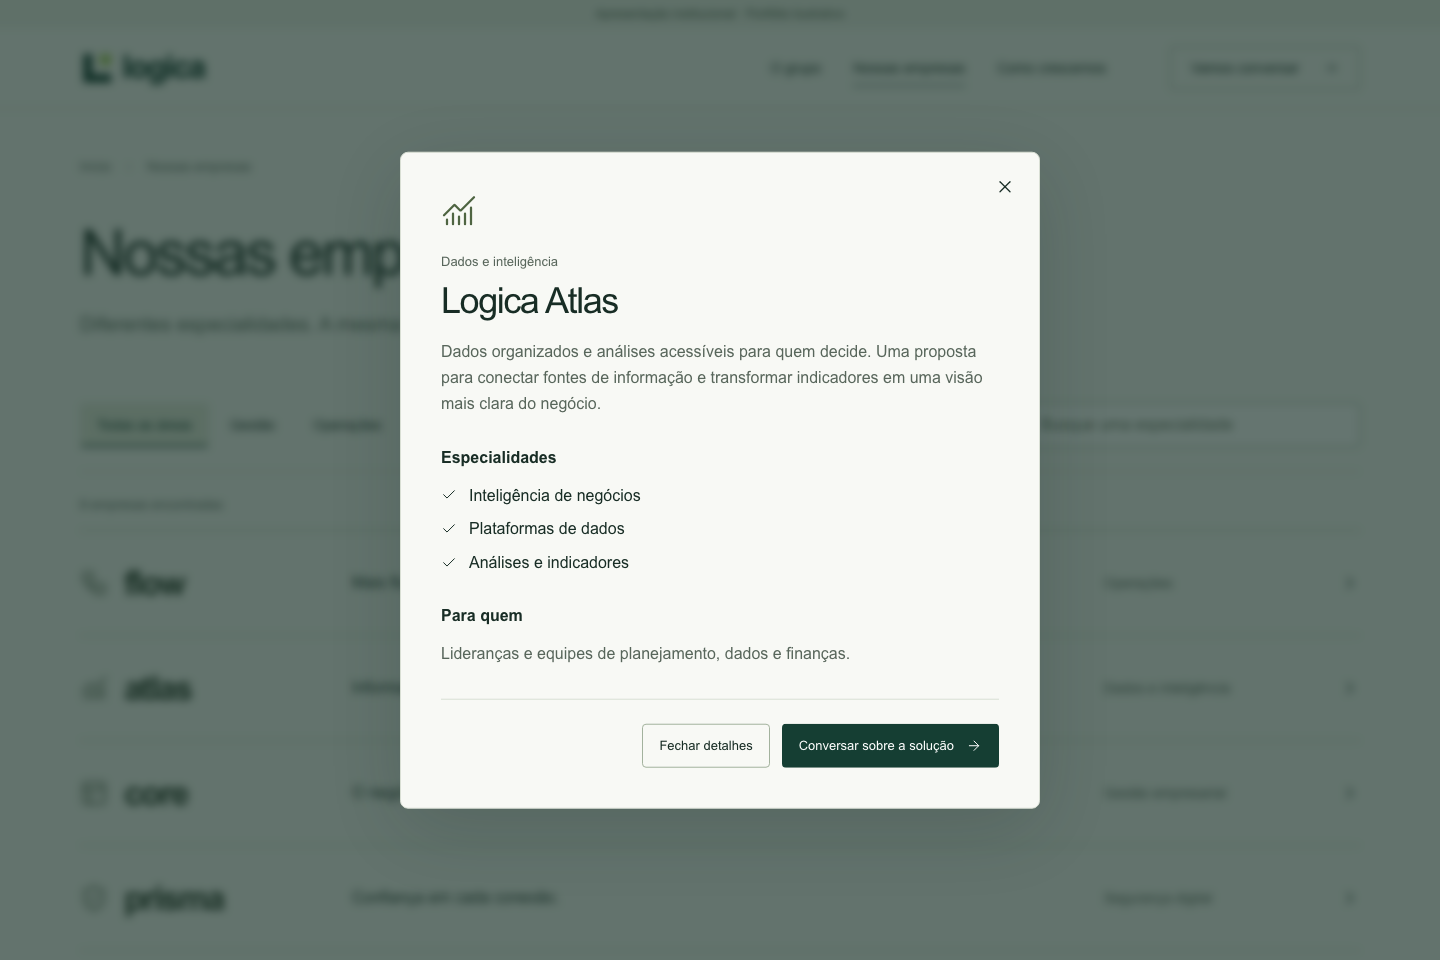
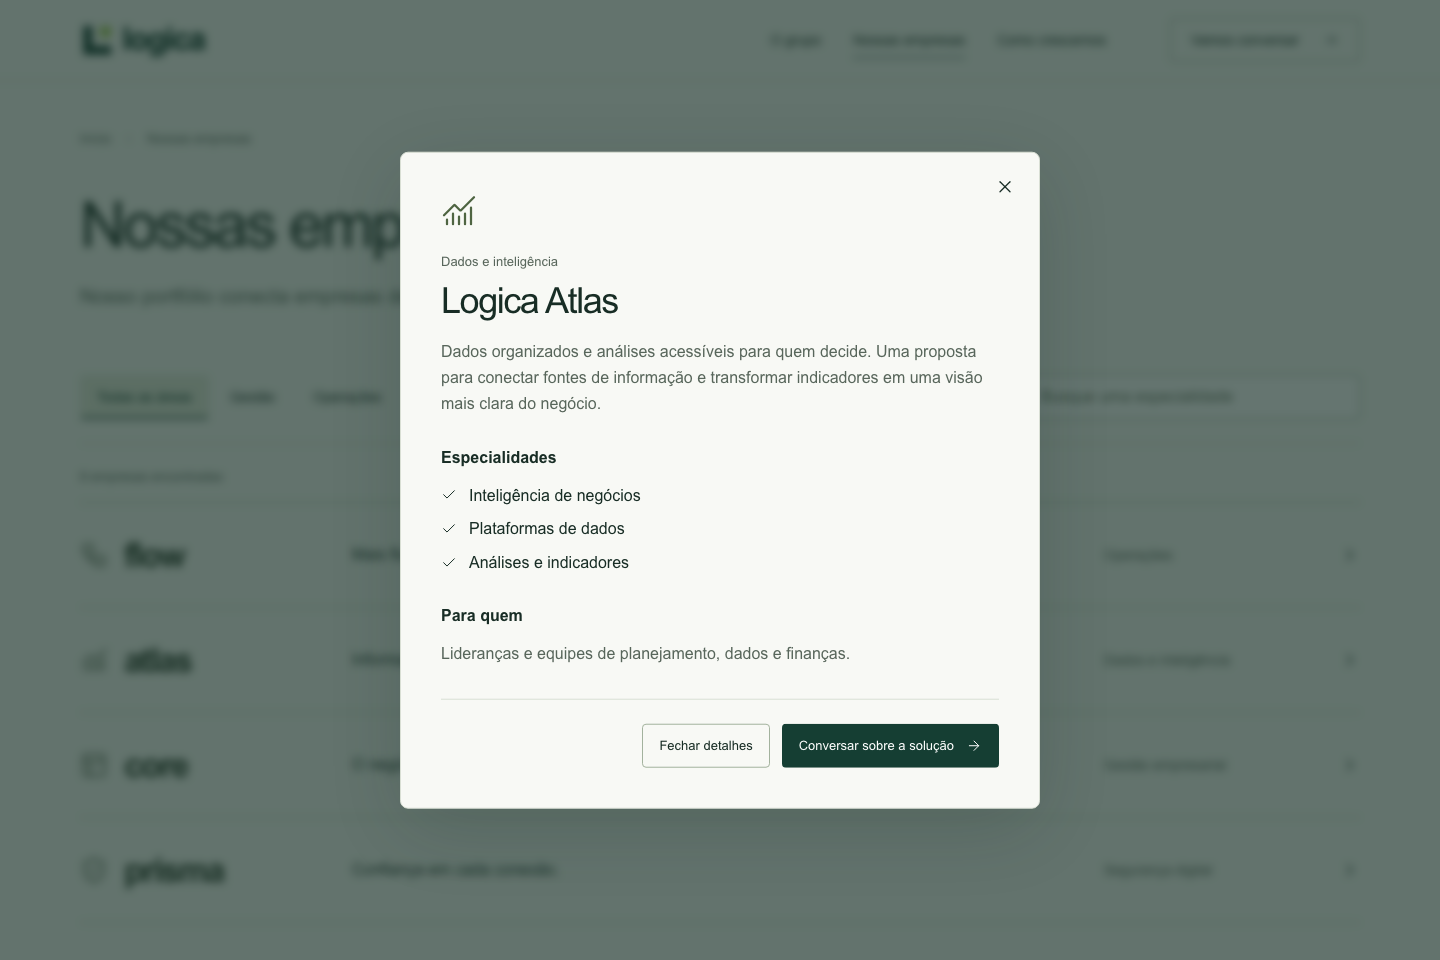
Update Site source

diff --git a/src/pages/Home.tsx b/src/pages/Home.tsx
@@ -22,8 +22,8 @@ export default function Home() {
       <section className="hero">
         <img
           className="hero-image"
-          src="/images/conexoes.webp"
-          alt="Passarela conectando edifícios de arquitetura contemporânea em meio à vegetação"
+          src="/images/grupo-software.webp"
+          alt="Diferentes equipes de tecnologia trabalhando com desenvolvimento e análise de software"
           width="1536"
           height="1024"
           fetchPriority="high"
@@ -32,19 +32,19 @@ export default function Home() {
         <div className="container hero-inner">
           <div className="hero-copy">
             <h1>
-              Boas empresas.
+              Um grupo de
               <br />
-              Novas
-              <br className="desktop-break" /> possibilidades.
+              empresas de
+              <br />
+              software.
             </h1>
             <p>
-              Independência para criar.
-              <br />
-              Conexão para ir além.
+              Um portfólio de especialidades, com autonomia para criar e
+              conexões para crescer.
             </p>
             <Button asChild variant="light">
               <Link to="/empresas">
-                Conhecer nossas empresas
+                Explorar nosso portfólio
                 <ArrowRight />
               </Link>
             </Button>
@@ -54,7 +54,7 @@ export default function Home() {
             Conheça a Logica
           </a>
           <span className="hero-caption">
-            Um grupo de empresas de software.
+            Empresas independentes. Um grupo conectado.
           </span>
         </div>
       </section>
@@ -70,11 +70,12 @@ export default function Home() {
             </h2>
             <div className="section-copy">
               <p className="lead">
-                O que já faz uma empresa ser boa é o ponto de partida.
+                Um grupo que reúne empresas de software e valoriza o que cada
+                uma faz de melhor.
               </p>
               <p>
-                Reunimos negócios de software com diferentes especialidades.
-                Preservamos o que os torna únicos e criamos espaço para trocar
+                Nosso portfólio conecta negócios com diferentes especialidades.
+                Preservamos sua identidade e criamos espaço para trocar
                 conhecimento, aproximar talentos e crescer com direção.
               </p>
               <TextLink to="/grupo">Conheça o grupo</TextLink>
@@ -106,14 +107,14 @@ export default function Home() {
           <div className="section-heading reveal">
             <div>
               <h2>
-                Especialistas no que fazem.
+                Empresas especialistas.
                 <br />
-                <span>Conectadas pelo que vem.</span>
+                <span>Um portfólio conectado.</span>
               </h2>
             </div>
-            <TextLink to="/empresas">Explore o ecossistema</TextLink>
+            <TextLink to="/empresas">Conheça todas as empresas</TextLink>
           </div>
-          <CompanyList items={companies.slice(0, 3)} />
+          <CompanyList items={companies} />
           <div className="portfolio-note">
             <span>Software para diferentes desafios.</span>
             <span>Gestão · Operações · Dados · Infraestrutura</span>
@@ -123,8 +124,8 @@ export default function Home() {
       <section className="model-section">
         <div className="model-photo">
           <img
-            src="/images/conexoes.webp"
-            alt="Arquitetura integrada à paisagem, com espaços conectados"
+            src="/images/grupo-software.webp"
+            alt="Profissionais de diferentes especialidades colaborando em produtos de software"
             width="768"
             height="800"
             loading="lazy"

diff --git a/src/styles.css b/src/styles.css
@@ -251,16 +251,6 @@ p {
   text-decoration: underline;
   text-underline-offset: 6px;
 }
-.presentation-notice {
-  height: 28px;
-  display: flex;
-  align-items: center;
-  justify-content: center;
-  background: var(--muted);
-  color: #4b5a4b;
-  font-size: 12px;
-  line-height: 16px;
-}
 .site-header {
   position: sticky;
   top: 0;
@@ -321,7 +311,7 @@ p {
   background: #173c30;
   color: #fff;
   min-height: 640px;
-  height: calc(100svh - 108px);
+  height: calc(100svh - 80px);
   max-height: 840px;
   isolation: isolate;
 }
@@ -331,13 +321,13 @@ p {
   width: 100%;
   height: 100%;
   object-fit: cover;
-  object-position: center 48%;
+  object-position: center 50%;
   z-index: -3;
 }
 .hero-shade {
   position: absolute;
   inset: 0;
-  background: rgb(9 31 24 / 28%);
+  background: rgb(9 31 24 / 20%);
   z-index: -2;
 }
 .hero-inner {
@@ -358,6 +348,7 @@ p {
   animation: arrive 0.8s both;
 }
 .hero-copy p {
+  max-width: 440px;
   color: #eef2e9;
   font-size: 20px;
   line-height: 1.5;
@@ -1428,10 +1419,6 @@ p {
   .container {
     width: calc(100% - 40px);
   }
-  .presentation-notice {
-    font-size: 12px;
-    height: 28px;
-  }
   .header-inner {
     height: 64px;
     gap: 12px;
@@ -1450,13 +1437,13 @@ p {
   .hero {
     min-height: 560px;
     max-height: 780px;
-    height: calc(100svh - 92px);
+    height: calc(100svh - 64px);
   }
   .hero-image {
-    object-position: 59% center;
+    object-position: 88% center;
   }
   .hero-shade {
-    background: #102b2266;
+    background: #102b2280;
   }
   .hero-inner {
     align-items: center;

diff --git a/src/pages/Group.tsx b/src/pages/Group.tsx
@@ -4,12 +4,13 @@ export default function Group() {
   return (
     <>
       <PageIntro title="O grupo">
-        Uma nova perspectiva para empresas que querem ir além.
+        Um portfólio de empresas de software. Diferentes especialidades, novas
+        conexões.
       </PageIntro>
       <section className="group-visual container">
         <img
-          src="/images/conexoes.webp"
-          alt="Passarela entre edifícios cercados de árvores"
+          src="/images/grupo-software.webp"
+          alt="Equipes de tecnologia desenvolvendo soluções de software em um ambiente de colaboração"
           width="1536"
           height="640"
         />
@@ -33,9 +34,9 @@ export default function Group() {
               mercado.
             </p>
             <p>
-              A Logica parte dessa convicção. Nosso modelo aproxima empresas
-              especialistas e preserva sua identidade, seus talentos e o
-              conhecimento construído ao longo do tempo.
+              A Logica é um grupo com um portfólio de empresas de software.
+              Reunimos diferentes especialidades e preservamos a identidade, os
+              talentos e o conhecimento de cada negócio.
             </p>
             <p>
               A conexão acontece onde faz sentido: na troca de experiências, no

diff --git a/index.html b/index.html
@@ -11,17 +11,17 @@
     />
     <meta
       property="og:title"
-      content="Logica — Um grupo. Novas possibilidades."
+      content="Logica — Um grupo de empresas de software."
     />
     <meta
       property="og:description"
-      content="Independência para criar. Conexão para crescer."
+      content="Um portfólio de empresas de software. Diferentes especialidades, autonomia para criar e conexões para crescer."
     />
     <meta property="og:type" content="website" />
     <meta property="og:locale" content="pt_BR" />
-    <meta property="og:image" content="/images/conexoes.webp" />
+    <meta property="og:image" content="/images/grupo-software.webp" />
     <link rel="icon" type="image/svg+xml" href="/brand/favicon.svg" />
-    <title>Logica — Um grupo. Novas possibilidades.</title>
+    <title>Logica — Um grupo de empresas de software.</title>
   </head>
   <body>
     <div id="root"></div>

diff --git a/src/lib/data.ts b/src/lib/data.ts
@@ -122,7 +122,7 @@ export const subjects = [
 export const faqs = [
   [
     "O que é a Logica?",
-    "A Logica é a proposta de um grupo de empresas de software que combina autonomia, troca de conhecimento e visão de longo prazo. Este site apresenta esse conceito com um portfólio ilustrativo.",
+    "A Logica é um grupo com um portfólio de empresas de software. Reunimos negócios com diferentes especialidades, preservando sua autonomia e criando conexões para compartilhar conhecimento e crescer no longo prazo.",
   ],
   [
     "As empresas mantêm sua identidade?",

diff --git a/src/components/app/SiteShell.tsx b/src/components/app/SiteShell.tsx
@@ -58,9 +58,6 @@ export function SiteShell({ children }: PropsWithChildren) {
       <a className="skip-link" href="#conteudo">
         Pular para o conteúdo
       </a>
-      <div className="presentation-notice">
-        Apresentação institucional · Portfólio ilustrativo
-      </div>
       <header className="site-header">
         <div className="container header-inner">
           <Link className="brand" to="/" aria-label="Logica — página inicial">

diff --git a/src/App.tsx b/src/App.tsx
@@ -9,7 +9,7 @@ const Contact = lazy(() => import("./pages/Contact"));
 const Privacy = lazy(() => import("./pages/Privacy"));
 const NotFound = lazy(() => import("./pages/NotFound"));
 const titles: Record<string, string> = {
-  "/": "Um grupo. Novas possibilidades.",
+  "/": "Um grupo de empresas de software.",
   "/grupo": "O grupo",
   "/empresas": "Nossas empresas",
   "/modelo": "Como crescemos",

diff --git a/src/pages/Companies.tsx b/src/pages/Companies.tsx
@@ -32,7 +32,8 @@ export default function Companies() {
   return (
     <>
       <PageIntro title="Nossas empresas">
-        Diferentes especialidades. A mesma vontade de construir.
+        Nosso portfólio conecta empresas de software com diferentes
+        especialidades.
       </PageIntro>
       <section className="container directory">
         <div className="directory-toolbar">

diff --git a/docs/ATIVOS.md b/docs/ATIVOS.md
@@ -1,10 +1,18 @@
 # Identidade e ativos
 
 - `public/brand/logo.svg`, `logo-light.svg` e `favicon.svg`: preservados do ZIP fornecido pelo usuário. Mantida a marca Logica sem redesenho desnecessário.
-- `public/images/conexoes.webp`: imagem conceitual gerada com a ferramenta integrada ImageGen em 29/10/2026. Não é fotografia documental nem representa um imóvel real do grupo. Original em PNG preservado no armazenamento de imagens do Codex; versão WebP otimizada incluída no projeto.
+- `public/images/conexoes.webp`: ativo anterior, mantido como referência e sem uso na interface atual; imagem conceitual gerada com a ferramenta integrada ImageGen em 29/10/2026. Não é fotografia documental nem representa um imóvel real do grupo. Original em PNG preservado no armazenamento de imagens do Codex; versão WebP otimizada incluída no projeto.
 - Ícones: Lucide (licença ISC). Dependências de interface sob suas respectivas licenças open source. Consulte os pacotes instalados para os textos completos.
 - Fontes: Arial/Helvetica e fallback sans-serif do sistema, sem download externo.
 
-## Prompt da imagem
+## Prompt da imagem anterior — arquitetura
 
 Create a sophisticated architectural editorial photograph for a Brazilian software investment group website named Logica. Ultra-wide landscape 3:2 image, photorealistic, restrained, tactile real-world architecture. A modern Brazilian concrete building with a long clean horizontal elevated pedestrian bridge crossing from center toward upper right, tall glass facades reflecting forest, dense tropical trees below and right, one tiny distant human silhouette for scale. Architectural photography on fine-grain film, soft bright overcast daylight, deep forest green shadows, ivory pale concrete, sage foliage. Strong right-side architectural subject with open calm dark forest shaded area on the entire left half suitable for white website headline overlay. Wide-angle professionally composed, no fisheye, natural contrast. No text, no logos, no watermarks, no glowing circuits, no abstract 3D, no UI, no gradient artwork. It should feel like a carefully art-directed corporate magazine cover photograph, authentic architectural detail, timeless Brazilian modernism.
+
+## Imagem atual — grupo de software
+
+`public/images/grupo-software.webp`: nova imagem conceitual gerada com a ferramenta integrada ImageGen em 29/10/2026. Mostra diferentes equipes e especialidades de software em uma composição contínua. Não é registro documental de colaboradores ou instalações da empresa. Usada no herói, no grupo, no modelo da página inicial e no compartilhamento.
+
+### Prompt utilizado
+
+Create a premium corporate editorial PHOTOGRAPH for the full-width hero of Logica, a holding group with a portfolio of independent software companies. The visual must clearly show SOFTWARE TEAMS and different areas of digital expertise connected in one group, rather than architecture or real estate. Single coherent real-world scene: a candid wide view of a refined contemporary Brazilian software workplace, three distinct small autonomous teams at separate work islands, collaborating on laptops and large monitors, a quiet developer workstation nearer right foreground with subtle code visible on one screen and a dashboard on another, a small product discussion behind glass further right, and a pair reviewing a laptop in the midground. 6-8 people total, diverse Brazilian adults in understated everyday business clothes, mostly side and rear views, unposed, no one looking at camera, avoid stock-photo smiles. Warm natural daylight, walnut desks, forest-green textile panels and muted olive details, off-white walls, a few real plants, fine film grain, sophisticated subdued palette. Strong main subject entirely on the right 55 percent. The left 45 percent should be a quiet dark forest-green acoustic wall in soft natural shade with minimal detail, giving a reliably dark calm background for a white website title that will be added separately. Deep continuous perspective from dark left calm area toward active right workspace; not a split image and no graphic panels. Horizontal wide 3:2 composition. Realistic optics and skin, believable screen scale, documentary photography, authentic professional atmosphere. No text overlay, no words or logos in the scene, no watermarks, no collage, no generated UI frames, no isometric cubes, no neon, no glowing circuit lines, no holograms, no generic abstract AI shapes. This is a conceptual editorial image, not a factual photograph of company offices.

diff --git a/docs/UI-UX.md b/docs/UI-UX.md
@@ -2,13 +2,13 @@
 
 ## Direção visual
 
-Uma composição institucional sóbria, com verde profundo, superfícies claras, arquitetura brasileira e espaço para a história de cada empresa.
+Uma composição institucional sóbria, com verde profundo, superfícies claras, equipes de tecnologia e espaço para a história de cada empresa.
 
 O conteúdo segue: apresentação → essência → empresas → modelo → perguntas → contato. A interação usa entrada breve no herói, revelação de conteúdo ao rolar e transições em linhas e acordeões. Todas respeitam movimento reduzido.
 
 ## Relação com a referência
 
-Preservados: nome Logica, logos SVG, paleta verde, fonte Arial/Helvetica, páginas, especialidades e conceito de autonomia com colaboração. A imagem do ecossistema e os adornos numerados deram lugar à fotografia arquitetônica e a listas editoriais. A imagem é conceitual, não representa um escritório real da empresa.
+Preservados: nome Logica, logos SVG, paleta verde, fonte Arial/Helvetica, páginas, especialidades e conceito de autonomia com colaboração. O herói traz explicitamente “Um grupo de empresas de software” e uma imagem editorial de diferentes equipes trabalhando com software. As seis empresas aparecem na seção de portfólio da página inicial. A imagem é conceitual e não representa um escritório real da empresa.
 
 ## Aplicação das diretrizes fornecidas
 
@@ -21,7 +21,7 @@ O arquivo original está em DIRETRIZES-UI.md. Foi tratado como requisito de UI s
 - Sem gradientes, contadores artificiais, depoimentos, gráficos decorativos, badges de categoria, numeração de seções sem sequência ou setas diagonais para navegação interna.
 - Formulário de contato na página prevista no material, sem esconder a finalidade principal em uma janela. Cancelar e preparar/enviar permanecem lado a lado. Erros por campo, rótulos acima e placeholders exemplificativos.
 - Uma ação preenchida por seção/fluxo; navegação e chamadas secundárias usam contorno ou link. As chamadas institucionais em seções diferentes seguem o padrão de chamada final solicitado.
-- Empresas sem dados reais apresentadas com aviso global discreto. Apenas seis perfis, preservando o material; não foram inventadas empresas para cumprir a quantidade de linhas de tabelas administrativas.
+- Aviso do topo removido por solicitação do usuário. A natureza ilustrativa dos perfis permanece documentada e descrita na página de privacidade. Apenas seis perfis, preservando o material; não foram inventadas empresas para cumprir a quantidade de linhas de tabelas administrativas.
 
 ## Checklist aplicado às páginas
 

diff --git a/README.md b/README.md
@@ -1,6 +1,6 @@
 # Logica — Site institucional
 
-Projeto novo em **React 19 + TypeScript + Vite**, baseado no layout e conteúdo de `logica-site-completo.zip`. Interface responsiva para apresentação da empresa, com identidade verde preservada, fotografia arquitetônica original, tipografia de sistema, composição editorial e animações discretas.
+Projeto novo em **React 19 + TypeScript + Vite**, baseado no layout e conteúdo de `logica-site-completo.zip`. Interface responsiva para apresentação da empresa, com identidade verde preservada, imagem editorial original de equipes de tecnologia, tipografia de sistema, composição editorial e animações discretas.
 
 ## Rodar o projeto
 
@@ -49,7 +49,7 @@ As rotas antigas `grupo.html`, `empresas.html`, `modelo.html`, `contato.html`, `
 
 ## Conteúdo de demonstração
 
-**Flow, Atlas, Core, Prisma, Orbit e Pulse são empresas ilustrativas herdadas do material de referência.** Não foram fornecidas empresas verificadas, clientes, resultados ou dados comerciais. Um único aviso discreto no topo identifica a apresentação. Nenhuma estatística ou depoimento foi inventado.
+**Flow, Atlas, Core, Prisma, Orbit e Pulse são empresas ilustrativas herdadas do material de referência.** Não foram fornecidas empresas verificadas, clientes, resultados ou dados comerciais. O aviso do topo foi retirado a pedido do usuário. A identificação dos perfis ilustrativos permanece na página de privacidade e nesta documentação. Nenhuma estatística ou depoimento foi inventado.
 
 **O formulário não envia e-mail na configuração entregue.** Ele prepara uma mensagem no navegador e permite copiar/baixar. Não há backend de contato ou banco de dados neste escopo. A conexão opcional está documentada em `docs/FORMULARIO.md`.
 

diff --git a/docs/VALIDACAO.md b/docs/VALIDACAO.md
@@ -20,7 +20,7 @@ Capturas em `previews/`, com foco em herói, quebras de título, linhas do portf
 
 ## Limites
 
-Verificação em navegador desktop com janelas representativas; não foi um ensaio em aparelhos físicos ou com leitor de tela. A checagem automatizada não certifica acessibilidade completa. O envio por backend não foi exercitado porque nenhum serviço de contato foi fornecido. Empresas e imagem arquitetônica são ilustrativas. A publicação privada é registrada separadamente da validação local.
+Verificação em navegador desktop com janelas representativas; não foi um ensaio em aparelhos físicos ou com leitor de tela. A checagem automatizada não certifica acessibilidade completa. O envio por backend não foi exercitado porque nenhum serviço de contato foi fornecido. Os perfis de empresas e a imagem editorial de equipes de tecnologia são ilustrativos. A publicação privada é registrada separadamente da validação local.
 
 ## Reproduzir
 
@@ -30,3 +30,7 @@ npx playwright install chromium
 npm test
 npm run build
 ```
+
+## Ajuste de posicionamento
+
+Aviso do topo retirado; título e textos orientados a grupo com portfólio de empresas de software; nova imagem editorial de equipes de tecnologia; seis empresas na página inicial; altura do herói recalculada para o cabeçalho sem a faixa. Capturas atualizadas após a alteração.
